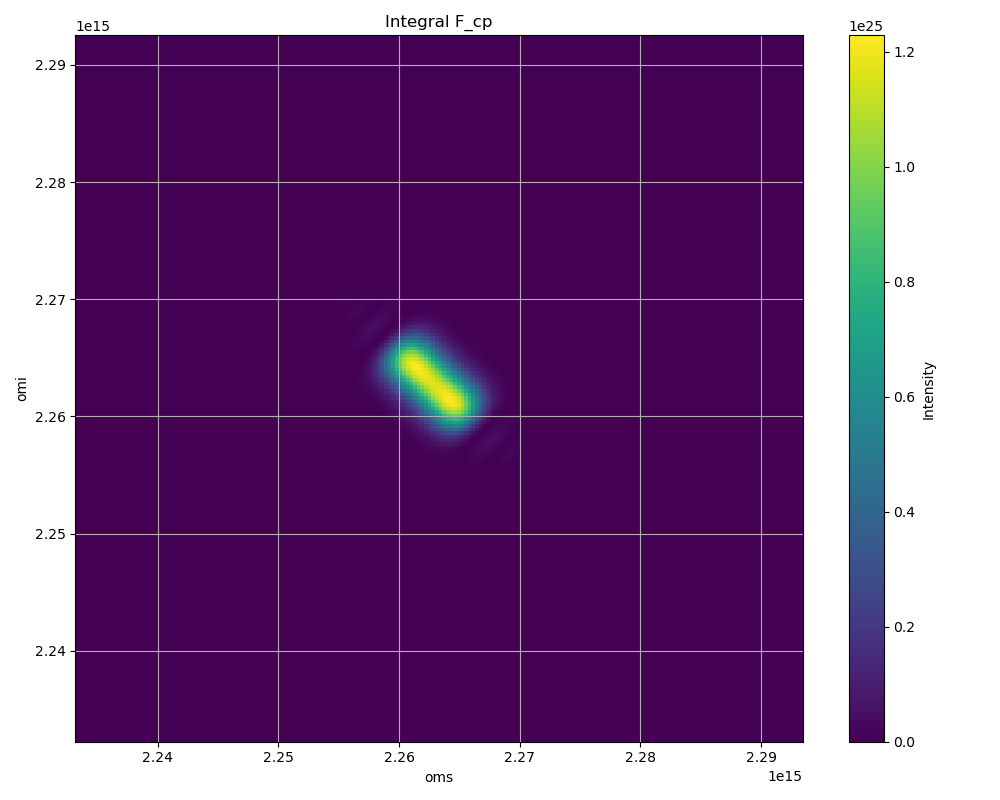
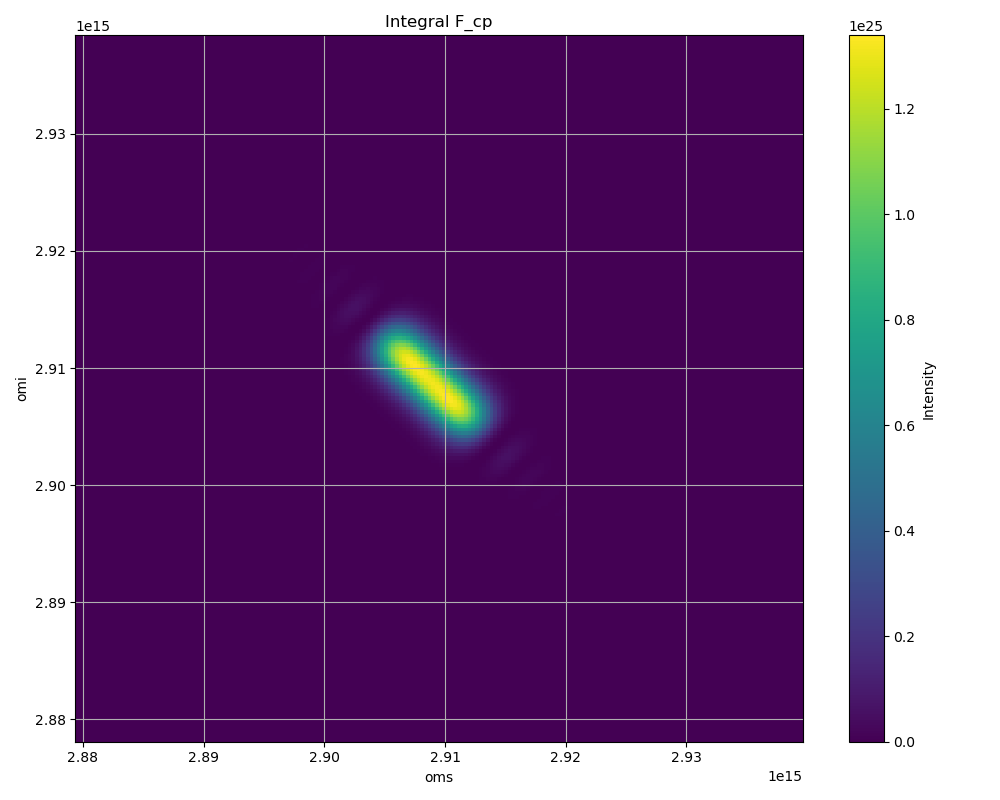
phase_matching parameters

diff --git a/Fase5/phase_matching_3d.py b/Fase5/phase_matching_3d.py
@@ -1,8 +1,7 @@
 import matplotlib.pyplot as plt
 import numpy as np
 import h5py
-from load_and_taylor import load_data_from_mat, fit_polynomial, create_taylor_approximation, plot_approximation, k_lambda
-
+from load_and_taylor import load_data_from_mat, fit_polynomial, create_taylor_approximation, plot_approximation, k_lambda, k_prime_lambda
 
 def compute_k_l(path, two_D=False):
     neff_values, lambda_values = load_data_from_mat(path)
@@ -21,7 +20,7 @@ def compute_k_l(path, two_D=False):
     taylor_values = taylor_polynomial(lambda_range - center_lambda)
 
     # Plot Neff approximation
-    plot_approximation(lambda_values, neff_values, lambda_range, original_values, taylor_values, 'Neff', 'Taylor Polynomial Approximation of Neff')
+    # plot_approximation(lambda_values, neff_values, lambda_range, original_values, taylor_values, 'Neff', 'Taylor Polynomial Approximation of Neff')
 
     #  # Calculate K(lambda)
     # K_values = (2 * np.pi * neff_values) / lambda_values
@@ -37,8 +36,8 @@ def compute_k_l(path, two_D=False):
     Begin 3d arrangement of DK 
     
     """
-    LAMBDA_MIN = 0
-    LAMBDA_MAX = 2
+    LAMBDA_MIN = 0.5
+    LAMBDA_MAX = 2.3
     POINTS = 300
 
     # Lambda arrangements
@@ -49,7 +48,7 @@ def compute_k_l(path, two_D=False):
     # Lambda Meshgrids
     LAMP, LAMS, LAMR = np.meshgrid(lamp, lams, lamr)
 
-    LAMI = 1. / (2. / LAMP - 1. / LAMS - 1. / LAMR)
+    LAMI = 1. / (1. / LAMP - 1. / LAMS - 1. / LAMR)
 
     # Propagation constants for each field
     kp = k_lambda(LAMP, coefficients)
@@ -57,10 +56,22 @@ def compute_k_l(path, two_D=False):
     kr = k_lambda(LAMR, coefficients)
     ki = k_lambda(LAMI, coefficients)
 
+    # K prime calculations
+    k_prime_p = k_prime_lambda(LAMP, coefficients)
+    k_prime_s = k_prime_lambda(LAMS, coefficients)
+    k_prime_r = k_prime_lambda(LAMR, coefficients)
+    k_prime_i = k_prime_lambda(LAMI, coefficients)
+
+    c = 3e8
+    kp_dw = - (LAMP ** 2 )/(2*np.pi*c) * k_prime_p
+    ks_dw = - (LAMS ** 2 )/(2*np.pi*c) * k_prime_s
+    kr_dw = - (LAMR ** 2 )/(2*np.pi*c) * k_prime_r
+    ki_dw = - (LAMI ** 2 )/(2*np.pi*c) * k_prime_i
+
 
     
 
-    return kp, ks, kr, ki, lamp, lams, lamr
+    return kp, ks, kr, ki, lamp, lams, lamr, kp_dw, ks_dw, kr_dw, ki_dw
 
 
 def hex_to_rgb(value):
@@ -95,18 +106,25 @@ pathTE = '/home/jay/repos/F3002C_Reto/Fase4/Sweep/Matlab/Waveguide727778_1000000
 
 pathTE = '/home/jay/repos/F3002C_Reto/Fase4/Sweep/Matlab/Waveguide727778_1000000_1580_Mode3.mat'
 
+pathTE = 'Fase4/Sweep/Matlab/Waveguide1000000_750000_1580_Mode3.mat'
 
 
 
 #pathTM = '/home/jay/repos/F3001C_Reto/CodigoFinal/Modos/Modes/TM/Waveguide1000_325_1555.mat'
 
 # Phase mismatch
-kp, ks, ki, kr, lamp, lams, lamr = compute_k_l(pathTE)
+kp, ks, ki, kr, lamp, lams, lamr, kp_dw, ks_dw, kr_dw, ki_dw = compute_k_l(pathTE)
 #kp_TM, ks_TM, ki_TM = compute_k_l(pathTM)
 
-DK_2d = kp + kp - ks - ki - 1e-6
+#DK_2d = kp + kp - ks - ki - 1e-6
 
 DK_3d = kp - ks - kr - ki - 1e-6
+
+# Tau from K_prime
+tau_s = kp_dw - ks_dw
+tau_i = kp_dw - ki_dw
+tau_r = kp_dw - kr_dw
+
 
 # Plotting the contour for DK_TE without the colorbar
 plt.figure(figsize=(10, 8))
@@ -115,7 +133,7 @@ start_color = hex_to_rgb("#FF0000")
 end_color = hex_to_rgb("#0000FF")
 
 n = 100
-for i in range(n):
+for i in range(int(0),int(n/16),1):
     slice_index = int(len(DK_3d)*i/n)
     
     # Get interpolated color
@@ -124,7 +142,12 @@ for i in range(n):
     hex_color = rgb_to_hex(rgb_color)
 
     # Here's your plotting line with the new color:
-    plt.contour(lamp, lams, DK_3d[:, slice_index, :], 0, colors=hex_color, linewidths=0.5)
+    plt.contour(lamp, lams, DK_3d[:, slice_index, :], [0], colors=hex_color, linewidths=0.5)
+
+# Then plot the 3 taus
+# plt.contour(lamp, lams, tau_i, [0], color= 'r', linewidths=2)
+# plt.contour(lamp, lams, tau_s, [0], color= 'g', linewidths=2)
+# plt.contour(lamp, lams, tau_r, [0], color= 'b', linewidths=2)
 
 
 plt.title('Contour plot of Phase Mismatch (DK_TE)')

diff --git a/Fase5/phase_matching.py b/Fase5/phase_matching.py
@@ -79,12 +79,12 @@ def compute_k_l(path):
 
     # change to dK/dw
     c = 3e8
-    kd_dw = - (LAMP ** 2 )/(2*np.pi*c) * k_prime_p
+    kp_dw = - (LAMP ** 2 )/(2*np.pi*c) * k_prime_p
     ks_dw = - (LAMS ** 2 )/(2*np.pi*c) * k_prime_s
     ki_dw = - (LAMI ** 2 )/(2*np.pi*c) * k_prime_i
 
-    tau_s = kd_dw - ks_dw
-    tau_i = kd_dw - ki_dw
+    tau_s = kp_dw - ks_dw
+    tau_i = kp_dw - ki_dw
 
 
     # # Pade approximation for each field
@@ -124,6 +124,7 @@ DK_TE.shape, DK_TE[1000, 1000]
 plt.figure(figsize=(10, 8))
 plt.contour(lamp, lams, DK_TE, [0], colors='b', linewidths=2)
 plt.contour(lamp, lams, tau_i, [0], color= 'r', linewidths=2)
+plt.contour(lamp, lams, tau_s, [0], color= 'g', linewidths=2)
 plt.title('Contour plot of Phase Mismatch (DK_TE)')
 plt.xlabel('lamp')
 plt.ylabel('lams')

diff --git a/Fase5/spectral_sequential.py b/Fase5/spectral_sequential.py
@@ -114,7 +114,9 @@ plot_contour(lamp, lams, DK_TE, path)
 L = 0.03e6 # in mm
 SIGMA = 3e12
 L0 = 0.833
+L0 = 0.648
 NL = 0
+print(L0)
 
 N = 100
 
